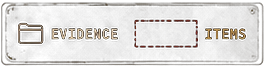
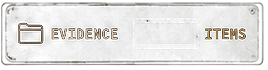
Day Detail: fix real bugs from the itemized product review
The product owner sent three additional clean assets (a date badge with no
baked text at all — two empty dashed placeholders instead of the demo "23
AUG 2025 / SATURDAY" I'd been inpainting and getting visible artifacts on
every attempt — plus a photo frame and a priority badge with only "PRIORITY"
baked as a permanent stamp, its level left blank) and an itemized list of
what was actually wrong:

- date_badge.png / photo_frame.png / priority_badge.png replaced with the
  clean versions — no more inpainting damage on the date card, and both the
  photo and priority cards now use their real dedicated art instead of the
  previous placeholders.
- TIME/EVIDENCE bars still had the red dashed placeholder box baked into
  the rendered UI — the value text was dropped inside it instead of the box
  being removed. Inpainted the dashed outline out (geometrically scoped to
  the small placeholder region so it doesn't touch the EVIDENCE bar's
  "ITEMS" label next to it).
- Summary row was a fixed 6 slots wrapping to 2 rows even at 0 count. It's
  now a real derived read-out: only categories with count > 0 render at
  all, and however many there are (1–6) share a single row via flex
  instead of wrapping — hidden entirely when an activity has nothing to
  summarize.
- Quote box had no alignSelf, so it stretched to the container width and
  sat left-aligned instead of centered.
- Photo and priority cards are pinned to the same aspect ratio so the pair
[…]

Changed region(s): [[0.4776, 0.2571, 0.7463, 0.6857]]

diff --git a/app/day/[date].tsx b/app/day/[date].tsx
@@ -67,51 +67,57 @@ export default function DayDetailScreen() {
     }
   }
 
+  // Only categories that actually apply to this activity are shown — this is
+  // a derived read-out of what's in the data, not a fixed 6-slot template
+  // (an activity with no gift-type glyph shows no GIFT card, same logic as
+  // Calendar's dayBadges list). All shown items sit in a single row.
   const summary: SummaryItem[] = activity
-    ? [
-        {
-          key: 'MEETING',
-          label: 'MEETING',
-          icon: 'people-outline',
-          color: colors.olive,
-          count: activity.glyphIds.filter((id) => GLYPH_MAP[id]?.category === 'MEETINGS').length,
-        },
-        {
-          key: 'MESSAGE',
-          label: 'MESSAGE',
-          icon: 'chatbubble-outline',
-          color: colors.purple,
-          count: activity.glyphIds.filter((id) => MESSAGE_IDS.has(id)).length,
-        },
-        {
-          key: 'CALL',
-          label: 'CALL',
-          icon: 'call-outline',
-          color: colors.amber,
-          count: activity.glyphIds.filter((id) => CALL_IDS.has(id)).length,
-        },
-        {
-          key: 'GIFT',
-          label: 'GIFT',
-          icon: 'gift-outline',
-          color: moodColors.NAMIETNOSC,
-          count: activity.glyphIds.filter((id) => GLYPH_MAP[id]?.category === 'OBJECTS').length,
-        },
-        {
-          key: 'NOTE',
-          label: 'NOTE',
-          icon: 'document-text-outline',
-          color: colors.paper,
-          count: activity.note ? 1 : 0,
-        },
-        {
-          key: 'FAVORITE',
-          label: 'FAVORITE',
-          icon: 'star-outline',
-          color: colors.gold,
-          count: activity.favorite ? 1 : 0,
-        },
-      ]
+    ? (
+        [
+          {
+            key: 'MEETING',
+            label: 'MEETING',
+            icon: 'people-outline',
+            color: colors.olive,
+            count: activity.glyphIds.filter((id) => GLYPH_MAP[id]?.category === 'MEETINGS').length,
+          },
+          {
+            key: 'MESSAGE',
+            label: 'MESSAGE',
+            icon: 'chatbubble-outline',
+            color: colors.purple,
+            count: activity.glyphIds.filter((id) => MESSAGE_IDS.has(id)).length,
+          },
+          {
+            key: 'CALL',
+            label: 'CALL',
+            icon: 'call-outline',
+            color: colors.amber,
+            count: activity.glyphIds.filter((id) => CALL_IDS.has(id)).length,
+          },
+          {
+            key: 'GIFT',
+            label: 'GIFT',
+            icon: 'gift-outline',
+            color: moodColors.NAMIETNOSC,
+            count: activity.glyphIds.filter((id) => GLYPH_MAP[id]?.category === 'OBJECTS').length,
+          },
+          {
+            key: 'NOTE',
+            label: 'NOTE',
+            icon: 'document-text-outline',
+            color: colors.paper,
+            count: activity.note ? 1 : 0,
+          },
+          {
+            key: 'FAVORITE',
+            label: 'FAVORITE',
+            icon: 'star-outline',
+            color: colors.gold,
+            count: activity.favorite ? 1 : 0,
+          },
+        ] as SummaryItem[]
+      ).filter((s) => s.count > 0)
     : [];
 
   return (
@@ -149,8 +155,10 @@ export default function DayDetailScreen() {
             style={styles.dateBadgeImg}
             resizeMode="stretch"
           />
-          <View style={styles.dateBadgeSlot}>
+          <View style={styles.dateBadgeDateSlot}>
             <Text style={styles.dateBadgeDate}>{dateBadgeLabel(date)}</Text>
+          </View>
+          <View style={styles.dateBadgeWeekdaySlot}>
             <Text style={styles.dateBadgeWeekday}>{dayLabelFull(date)}</Text>
           </View>
         </View>
@@ -168,20 +176,22 @@ export default function DayDetailScreen() {
           </View>
         ) : (
           <>
-            <View style={styles.summaryRow}>
-              {summary.map((s) => (
-                <View key={s.key} style={styles.summaryCard}>
-                  <View style={styles.summaryIconWrap}>
-                    <Ionicons name={s.icon} size={18} color={s.color} />
-                    <View style={[styles.summaryDot, { backgroundColor: s.color }]} />
+            {summary.length > 0 && (
+              <View style={styles.summaryRow}>
+                {summary.map((s) => (
+                  <View key={s.key} style={styles.summaryCard}>
+                    <View style={styles.summaryIconWrap}>
+                      <Ionicons name={s.icon} size={14} color={s.color} />
+                      <View style={[styles.summaryDot, { backgroundColor: s.color }]} />
+                    </View>
+                    <Text style={styles.summaryValue}>{s.count}</Text>
+                    <Text style={styles.summaryLabel} numberOfLines={1}>
+                      {s.label}
+                    </Text>
                   </View>
-                  <Text style={styles.summaryValue}>{s.count}</Text>
-                  <Text style={styles.summaryLabel} numberOfLines={1}>
-                    {s.label}
-                  </Text>
-                </View>
-              ))}
-            </View>
+                ))}
+              </View>
+            )}
 
             {(activity.photoUri || activity.importance > 0) && (
               <View style={styles.photoPriorityRow}>
@@ -201,10 +211,10 @@ export default function DayDetailScreen() {
                       style={styles.priorityBadgeImg}
                       resizeMode="stretch"
                     />
-                    <View style={styles.priorityBadgeSlot}>
-                      <Text style={[styles.priorityWord, { color: priorityColors[activity.importance] }]}>
-                        PRIORITY
-                      </Text>
+                    {/* "PRIORITY" is baked into the asset as a stamp — only the
+                        level word (ROUTINE/NOTED/CRITICAL) is code, dropped
+                        into the dashed placeholder below it. */}
+                    <View style={styles.priorityLevelSlot}>
                       <Text style={[styles.priorityLevel, { color: priorityColors[activity.importance] }]}>
                         {priorityLabels[activity.importance]}
                       </Text>
@@ -328,6 +338,7 @@ const styles = StyleSheet.create({
     opacity: 0.85,
   },
   quoteBox: {
+    alignSelf: 'center',
     marginTop: spacing.lg,
     borderWidth: 1,
     borderColor: colors.border,
@@ -354,33 +365,44 @@ const styles = StyleSheet.create({
   },
   dateBadgeWrap: {
     alignSelf: 'center',
-    width: '58%',
-    aspectRatio: 198 / 89,
+    width: '70%',
+    aspectRatio: 1661 / 707,
     marginTop: spacing.lg,
+    position: 'relative',
   },
   dateBadgeImg: {
     width: '100%',
     height: '100%',
   },
-  dateBadgeSlot: {
+  // Two separate slots (date on top, weekday below), matching the two
+  // dashed placeholder regions actually drawn into date_badge.png.
+  dateBadgeDateSlot: {
     position: 'absolute',
-    left: 0,
-    right: 0,
-    top: 0,
-    bottom: 0,
+    left: '19.3%',
+    top: '11.3%',
+    width: '61.7%',
+    height: '31.1%',
+    alignItems: 'center',
+    justifyContent: 'center',
+  },
+  dateBadgeWeekdaySlot: {
+    position: 'absolute',
+    left: '16.9%',
+    top: '55.2%',
+    width: '66.5%',
+    height: '29.7%',
     alignItems: 'center',
     justifyContent: 'center',
   },
   dateBadgeDate: {
     ...typography.stamp,
     color: colors.textOnPaper,
-    fontSize: 15,
+    fontSize: 14,
   },
   dateBadgeWeekday: {
     ...typography.stamp,
     color: colors.red,
-    fontSize: 13,
-    marginTop: 2,
+    fontSize: 12,
   },
   empty: {
     alignItems: 'center',
@@ -407,21 +429,22 @@ const styles = StyleSheet.create({
     fontWeight: '700',
     letterSpacing: 1,
   },
+  // Always ONE row — however many categories apply (1 to 6), they share the
+  // row via flex:1 rather than wrapping to a second line.
   summaryRow: {
     flexDirection: 'row',
-    flexWrap: 'wrap',
-    gap: spacing.xs,
+    gap: 5,
     marginTop: spacing.lg,
   },
   summaryCard: {
-    width: '31%',
+    flex: 1,
     backgroundColor: colors.surface,
     borderWidth: 1,
     borderColor: colors.border,
-    borderRadius: radius.md,
-    paddingVertical: spacing.sm,
+    borderRadius: radius.sm,
+    paddingVertical: 6,
     alignItems: 'center',
-    gap: 2,
+    gap: 1,
   },
   summaryIconWrap: {
     position: 'relative',
@@ -429,19 +452,19 @@ const styles = StyleSheet.create({
   summaryDot: {
     position: 'absolute',
     top: -2,
-    right: -6,
-    width: 6,
-    height: 6,
-    borderRadius: 3,
+    right: -5,
+    width: 5,
+    height: 5,
+    borderRadius: 2.5,
   },
   summaryValue: {
     ...typography.stat,
     color: colors.textPrimary,
-    fontSize: 16,
+    fontSize: 13,
   },
   summaryLabel: {
-    fontSize: 8,
-    letterSpacing: 0.5,
+    fontSize: 6.5,
+    letterSpacing: 0.3,
     color: colors.textFaint,
   },
   photoPriorityRow: {
@@ -449,17 +472,21 @@ const styles = StyleSheet.create({
     gap: spacing.sm,
     marginTop: spacing.lg,
   },
+  // Photo and priority sit side by side at the same aspect ratio (the
+  // priority card's real 1269x1043 shape) so the pair lines up evenly even
+  // though the photo frame asset's own native crop is wider — it's a plain
+  // torn-corner border, not pixel-exact art that has to keep its ratio.
   photoFrameWrap: {
     width: '48%',
-    aspectRatio: 141 / 137,
+    aspectRatio: 1269 / 1043,
     position: 'relative',
   },
   photoInner: {
     position: 'absolute',
-    left: '9%',
-    top: '10%',
-    width: '82%',
-    height: '80%',
+    left: '5%',
+    top: '8.5%',
+    width: '90.7%',
+    height: '82.7%',
     borderRadius: 2,
   },
   photoFrameArt: {
@@ -468,35 +495,30 @@ const styles = StyleSheet.create({
   },
   priorityBadgeWrap: {
     width: '48%',
-    aspectRatio: 190 / 129,
+    aspectRatio: 1269 / 1043,
     position: 'relative',
   },
   priorityBadgeImg: {
     width: '100%',
     height: '100%',
   },
-  priorityBadgeSlot: {
+  priorityLevelSlot: {
     position: 'absolute',
-    left: 0,
-    right: 0,
-    top: 0,
-    bottom: 0,
+    left: '15.4%',
+    top: '48.4%',
+    width: '71.7%',
+    height: '33.1%',
     alignItems: 'center',
     justifyContent: 'center',
   },
-  priorityWord: {
-    ...typography.stamp,
-    fontSize: 13,
-  },
   priorityLevel: {
     ...typography.stamp,
-    fontSize: 12,
-    marginTop: 2,
+    fontSize: 14,
   },
   // TIME / EVIDENCE — real asset bars (icon + label baked into the pixels),
   // only the value is code, dropped into the dashed placeholder's exact spot.
   timeBarWrap: {
-    marginTop: spacing.sm,
+    marginTop: spacing.md,
     width: '100%',
     aspectRatio: 239 / 68,
     position: 'relative',
@@ -515,7 +537,7 @@ const styles = StyleSheet.create({
     justifyContent: 'center',
   },
   evidenceBarWrap: {
-    marginTop: spacing.sm,
+    marginTop: 3,
     width: '100%',
     aspectRatio: 268 / 70,
     position: 'relative',
@@ -562,19 +584,20 @@ const styles = StyleSheet.create({
   },
   reportInner: {
     position: 'absolute',
-    left: '6.6%',
-    top: '21%',
-    width: '86.5%',
-    height: '67%',
+    left: '8%',
+    top: '23%',
+    width: '82%',
+    height: '62%',
     justifyContent: 'center',
+    overflow: 'hidden',
   },
   reportScroll: {
     flex: 1,
   },
   noteText: {
     color: colors.textOnPaper,
-    fontSize: 13,
-    lineHeight: 18,
+    fontSize: 12,
+    lineHeight: 16,
   },
   noNote: {
     color: colors.textOnPaper,
